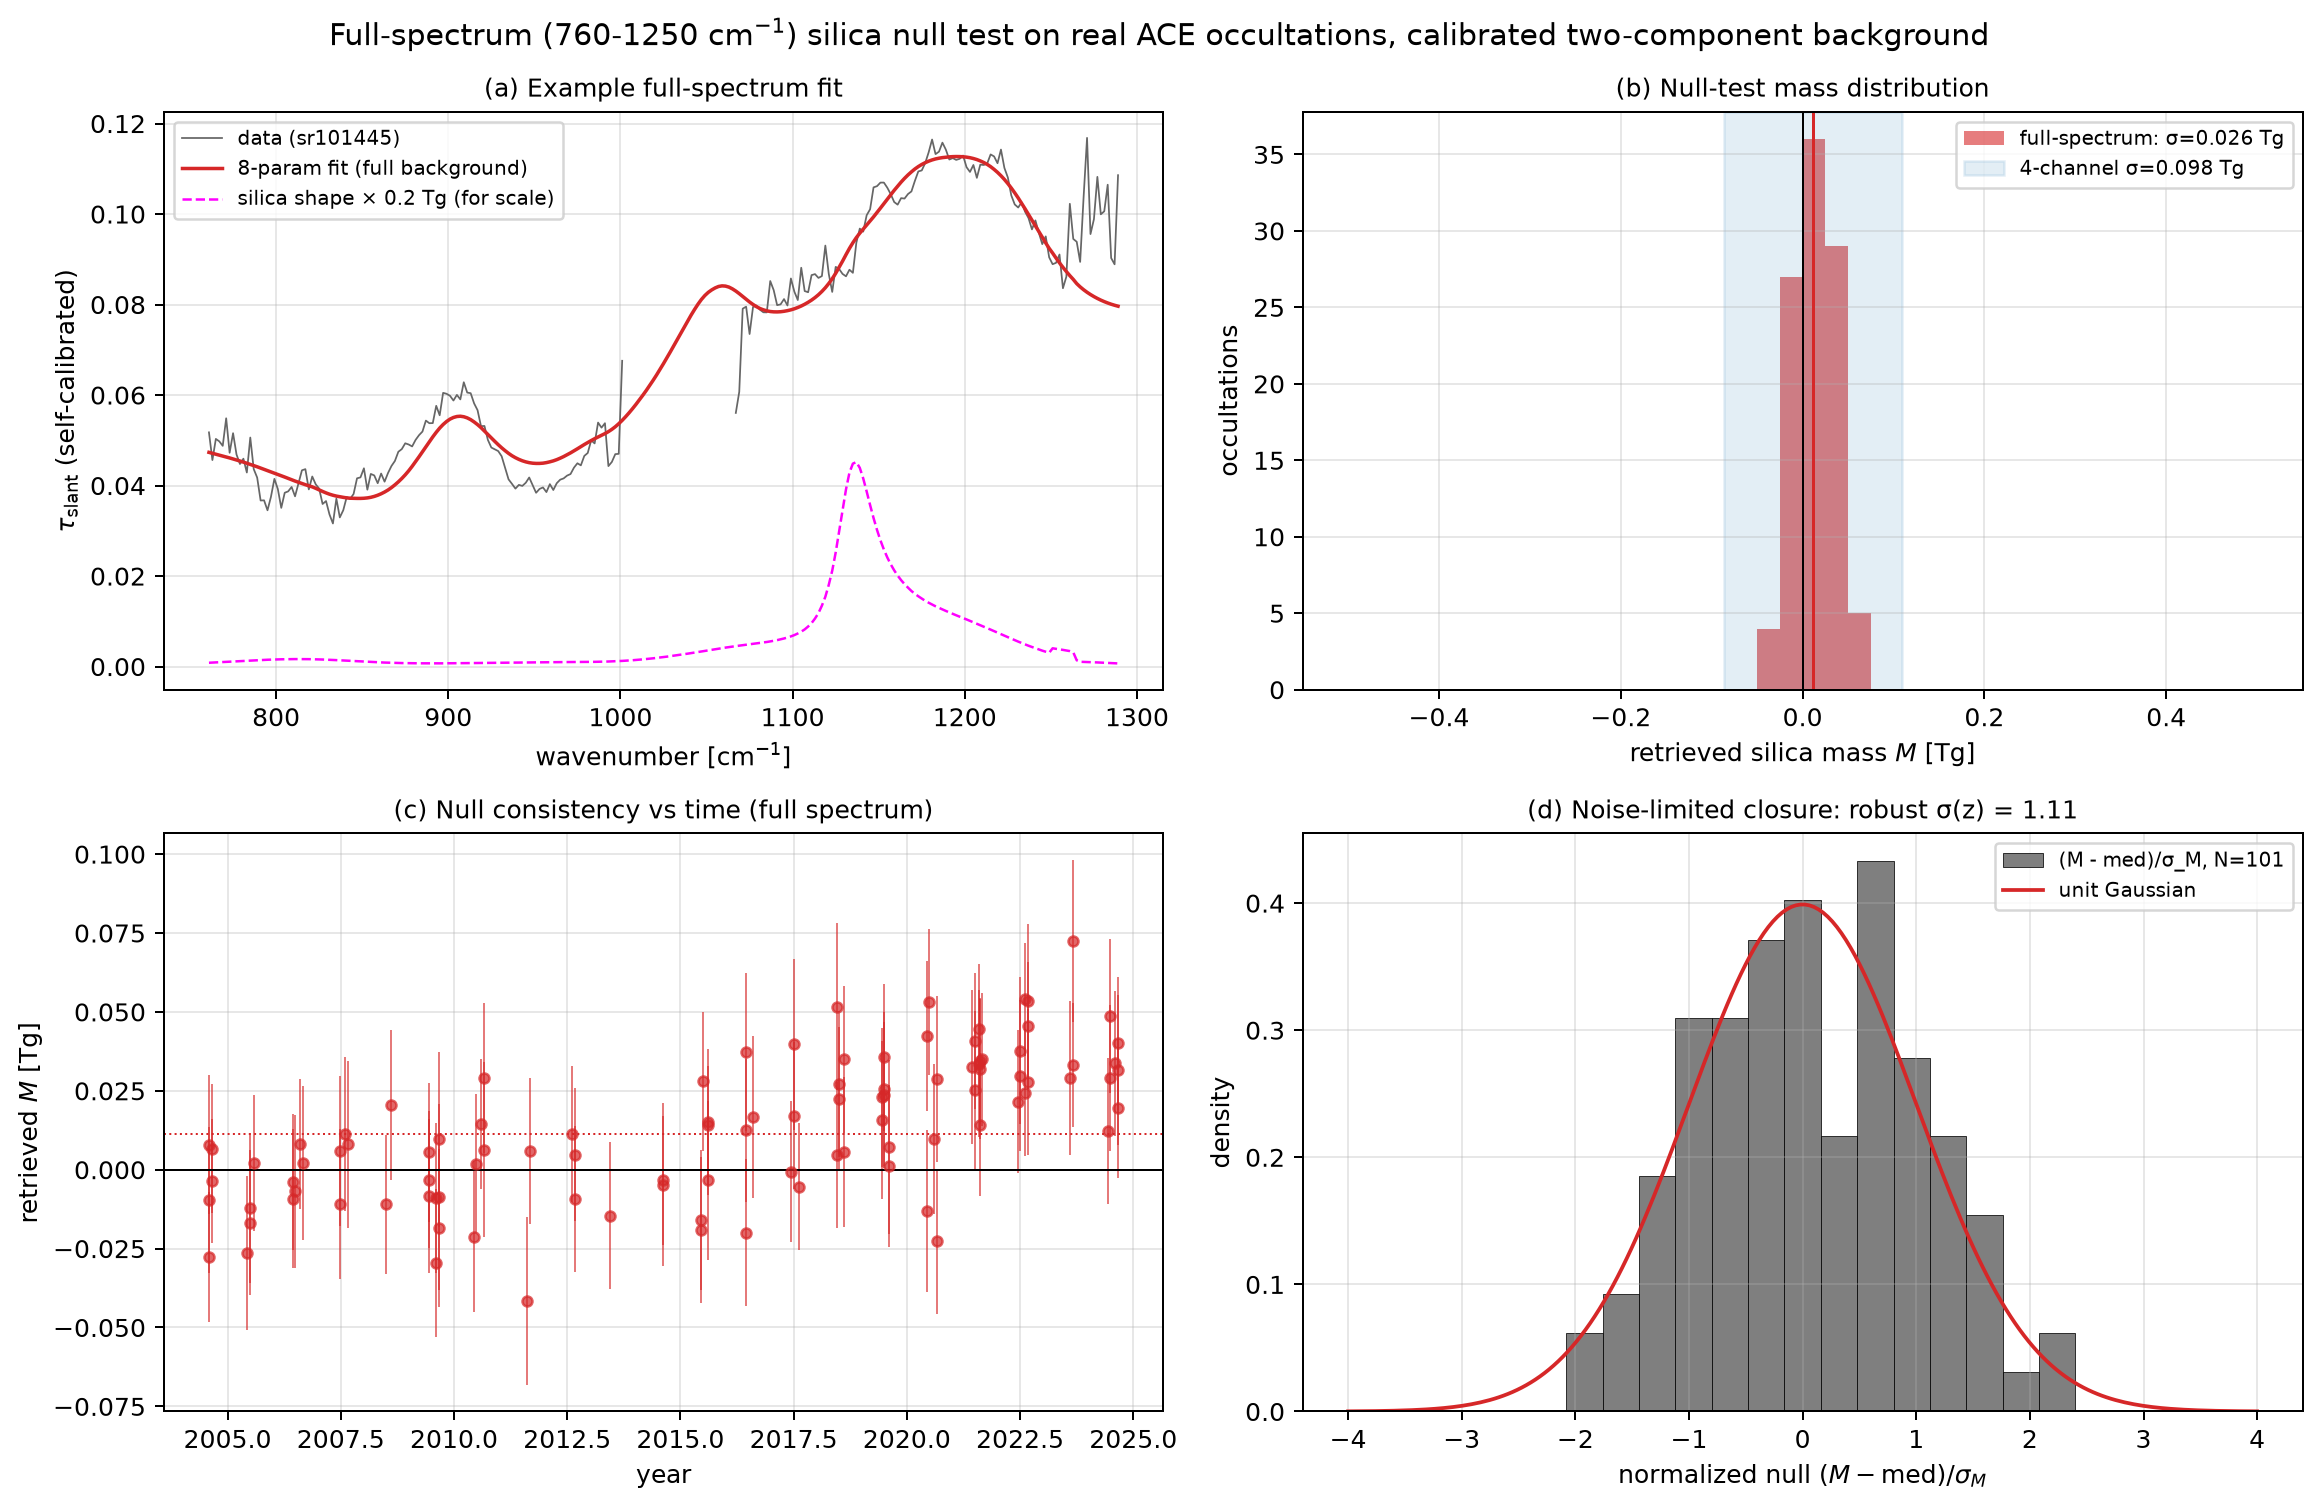
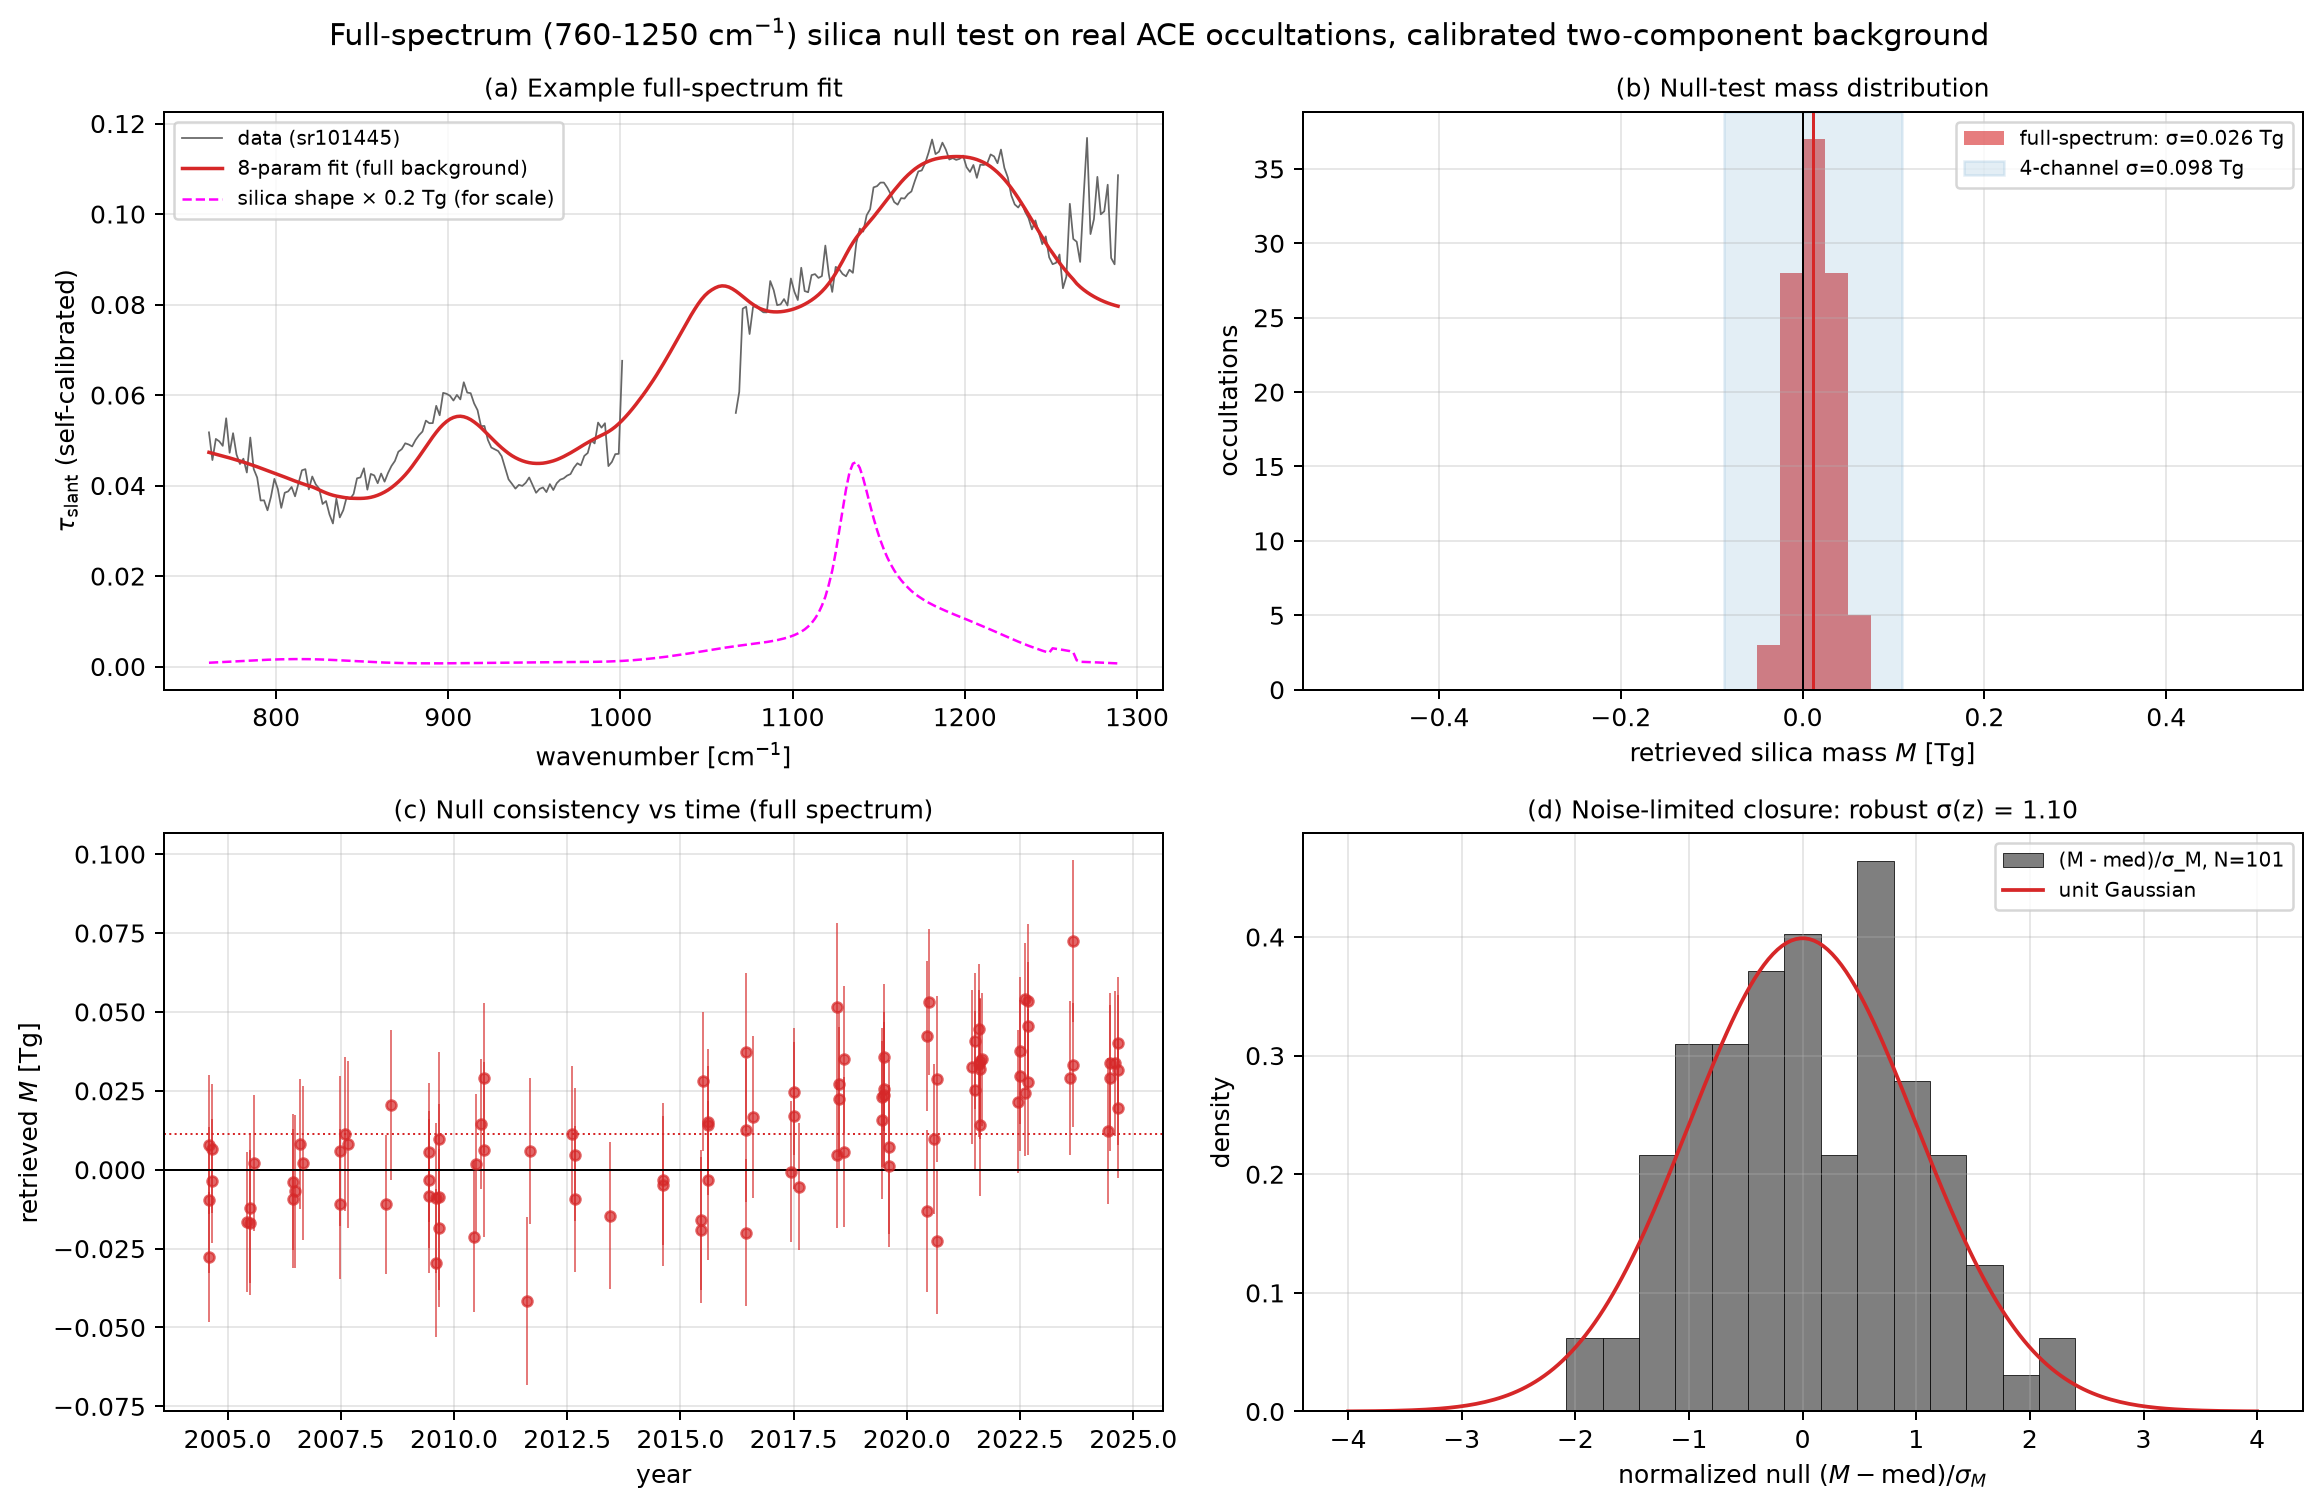
Deterministic tangent-height tie-break in the ACE null test; reference outputs refreshed
* ace_fullspectrum_retrieval.py: five ensemble occultations have two tangent
  heights exactly equidistant from 20.5 km; the choice was left to directory
  order, which differed between the local mirror and the shipped subset.
  The tie now goes to the lower height (both here and in the paper's own
  script), and the manuscript's null-test numbers were updated to this run
  (round 51).
* Table F1 ACE columns (ace_nulltest_resolution.py) re-run; the figure and
  the nulltest_resolution.json reference added.
* design_sensitivity_calibrated.json and calibrated_background_problem.json
  verified against the reproduction (0 differing values); reference copies
  now come from repository runs.
* guide §7 rewritten: no remaining known differences except the documented
  round-50/51 corrections.

diff --git a/reproduce/ace_fullspectrum_retrieval.py b/reproduce/ace_fullspectrum_retrieval.py
@@ -178,12 +178,17 @@ def occultation_data(occ, nu_grid):
             continue
     if not files:
         return None
+    # deterministic order: nearest to 20.5 km first, the LOWER of two
+    # equidistant heights first.  Three ensemble occultations have an exact
+    # tie (19.8/21.2 km, 20.3/20.7 km twice); directory order must not
+    # decide it.
+    files.sort(key=lambda af: (abs(af[0] - 20.5), af[0]))
     alts = np.array([a for a, _ in files])
     near = np.abs(alts - 20.5) <= 1.5
     hi = alts >= 30.0
     if not near.any() or hi.sum() < 2:
         return None
-    k = int(np.argmin(np.abs(alts - 20.5)))
+    k = 0
     t20 = load_spectrum(files[k][1], nu_grid)
     tref = np.nanmedian(np.array([load_spectrum(f, nu_grid)
                                   for a, f in files if a >= 30.0]), axis=0)

diff --git a/reproduce/ace_nulltest_resolution.py b/reproduce/ace_nulltest_resolution.py
@@ -13,7 +13,7 @@ contiguous elements of width dlam (transmission-weighted for the data,
 linear for the basis), MID-INFRARED ALONE (no visible/NIR datum), weighted
 with the floor model of scripts/resolution_sensitivity_calibrated.py
 (atlas SD at the 0.25-um centers interpolated to the element centers x
-the measured width factor of the 8.74-um record).  Elements with <60 %
+the measured width factor of the 8.80-um record).  Elements with <60 %
 valid bins (the saturated O3 core) are dropped.
 
 Reported per (range, dlam): number of elements, robust empirical sigma(M)

diff --git a/guide/GUIDE.md b/guide/GUIDE.md
@@ -97,15 +97,20 @@ cross-section grids are our computed products for the paper's bands.
 * Table F1 (element-width scan) in the paper was corrected in round 50 to
   the values this repository produces (differences ≤ 2 %): the manuscript's
   earlier run had used the 8.74 µm record for the averaging-width scaling.
-* The ACE null-test *window* variants (Sect. 4.3: σ(M) = 0.033 Tg at native
-  binning, 0.10 Tg, 0.24 Tg per shell) come out 1–3 % lower here
-  (0.032, 0.095, 0.23 Tg); the full-spectrum null test, its formal error and
-  the design's element-averaged window variant reproduce exactly. The
-  origin of the small window-variant difference (the paper's run scanned a
-  1274-occultation local mirror, this repository the 143-occultation
-  subset) is under review; the paper's rounded statements are unaffected
-  except "0.033" → "0.032" and "0.24" → "0.23".
+* The ACE null test (Sect. 4.3, Table F1 ACE columns) selects, per
+  occultation, the tangent height nearest to 20.5 km.  Five ensemble
+  occultations have two heights exactly equidistant (19.8/21.2 km,
+  20.3/20.7 km, ...) and the paper's runs up to round 50 had let the
+  directory listing order decide; `ace_fullspectrum_retrieval.py` now breaks
+  the tie deterministically (lower height).  The manuscript's null-test
+  numbers were updated to this deterministic run in round 51 (window
+  0.033 -> 0.032 Tg, element-averaged 0.040 -> 0.038 Tg, per shell
+  0.29 -> 0.28 Tg, fixed-coarse 0.022 -> 0.021 Tg; the full-spectrum null,
+  0.026 / 0.08 / 0.19 Tg, is unchanged).  The ACE columns of Table F1 had
+  last been run in round 33 (before the round-36 floor model) and were re-run
+  in round 51 as well (band at 0.1 um: 0.18 -> 0.15 Tg per shell).
 * The reference archives in `reference_outputs/` are the versions this
   repository regenerates; `outputs/calibrated_background_thresholds.json`,
-  the Fisher inputs, the materials thresholds, the 2D study and the floor
+  the Fisher inputs, the materials thresholds, the design-sensitivity
+  scans (Table 2, Appendix F), the 2D study, the null tests and the floor
   records reproduce the manuscript's numbers exactly.
